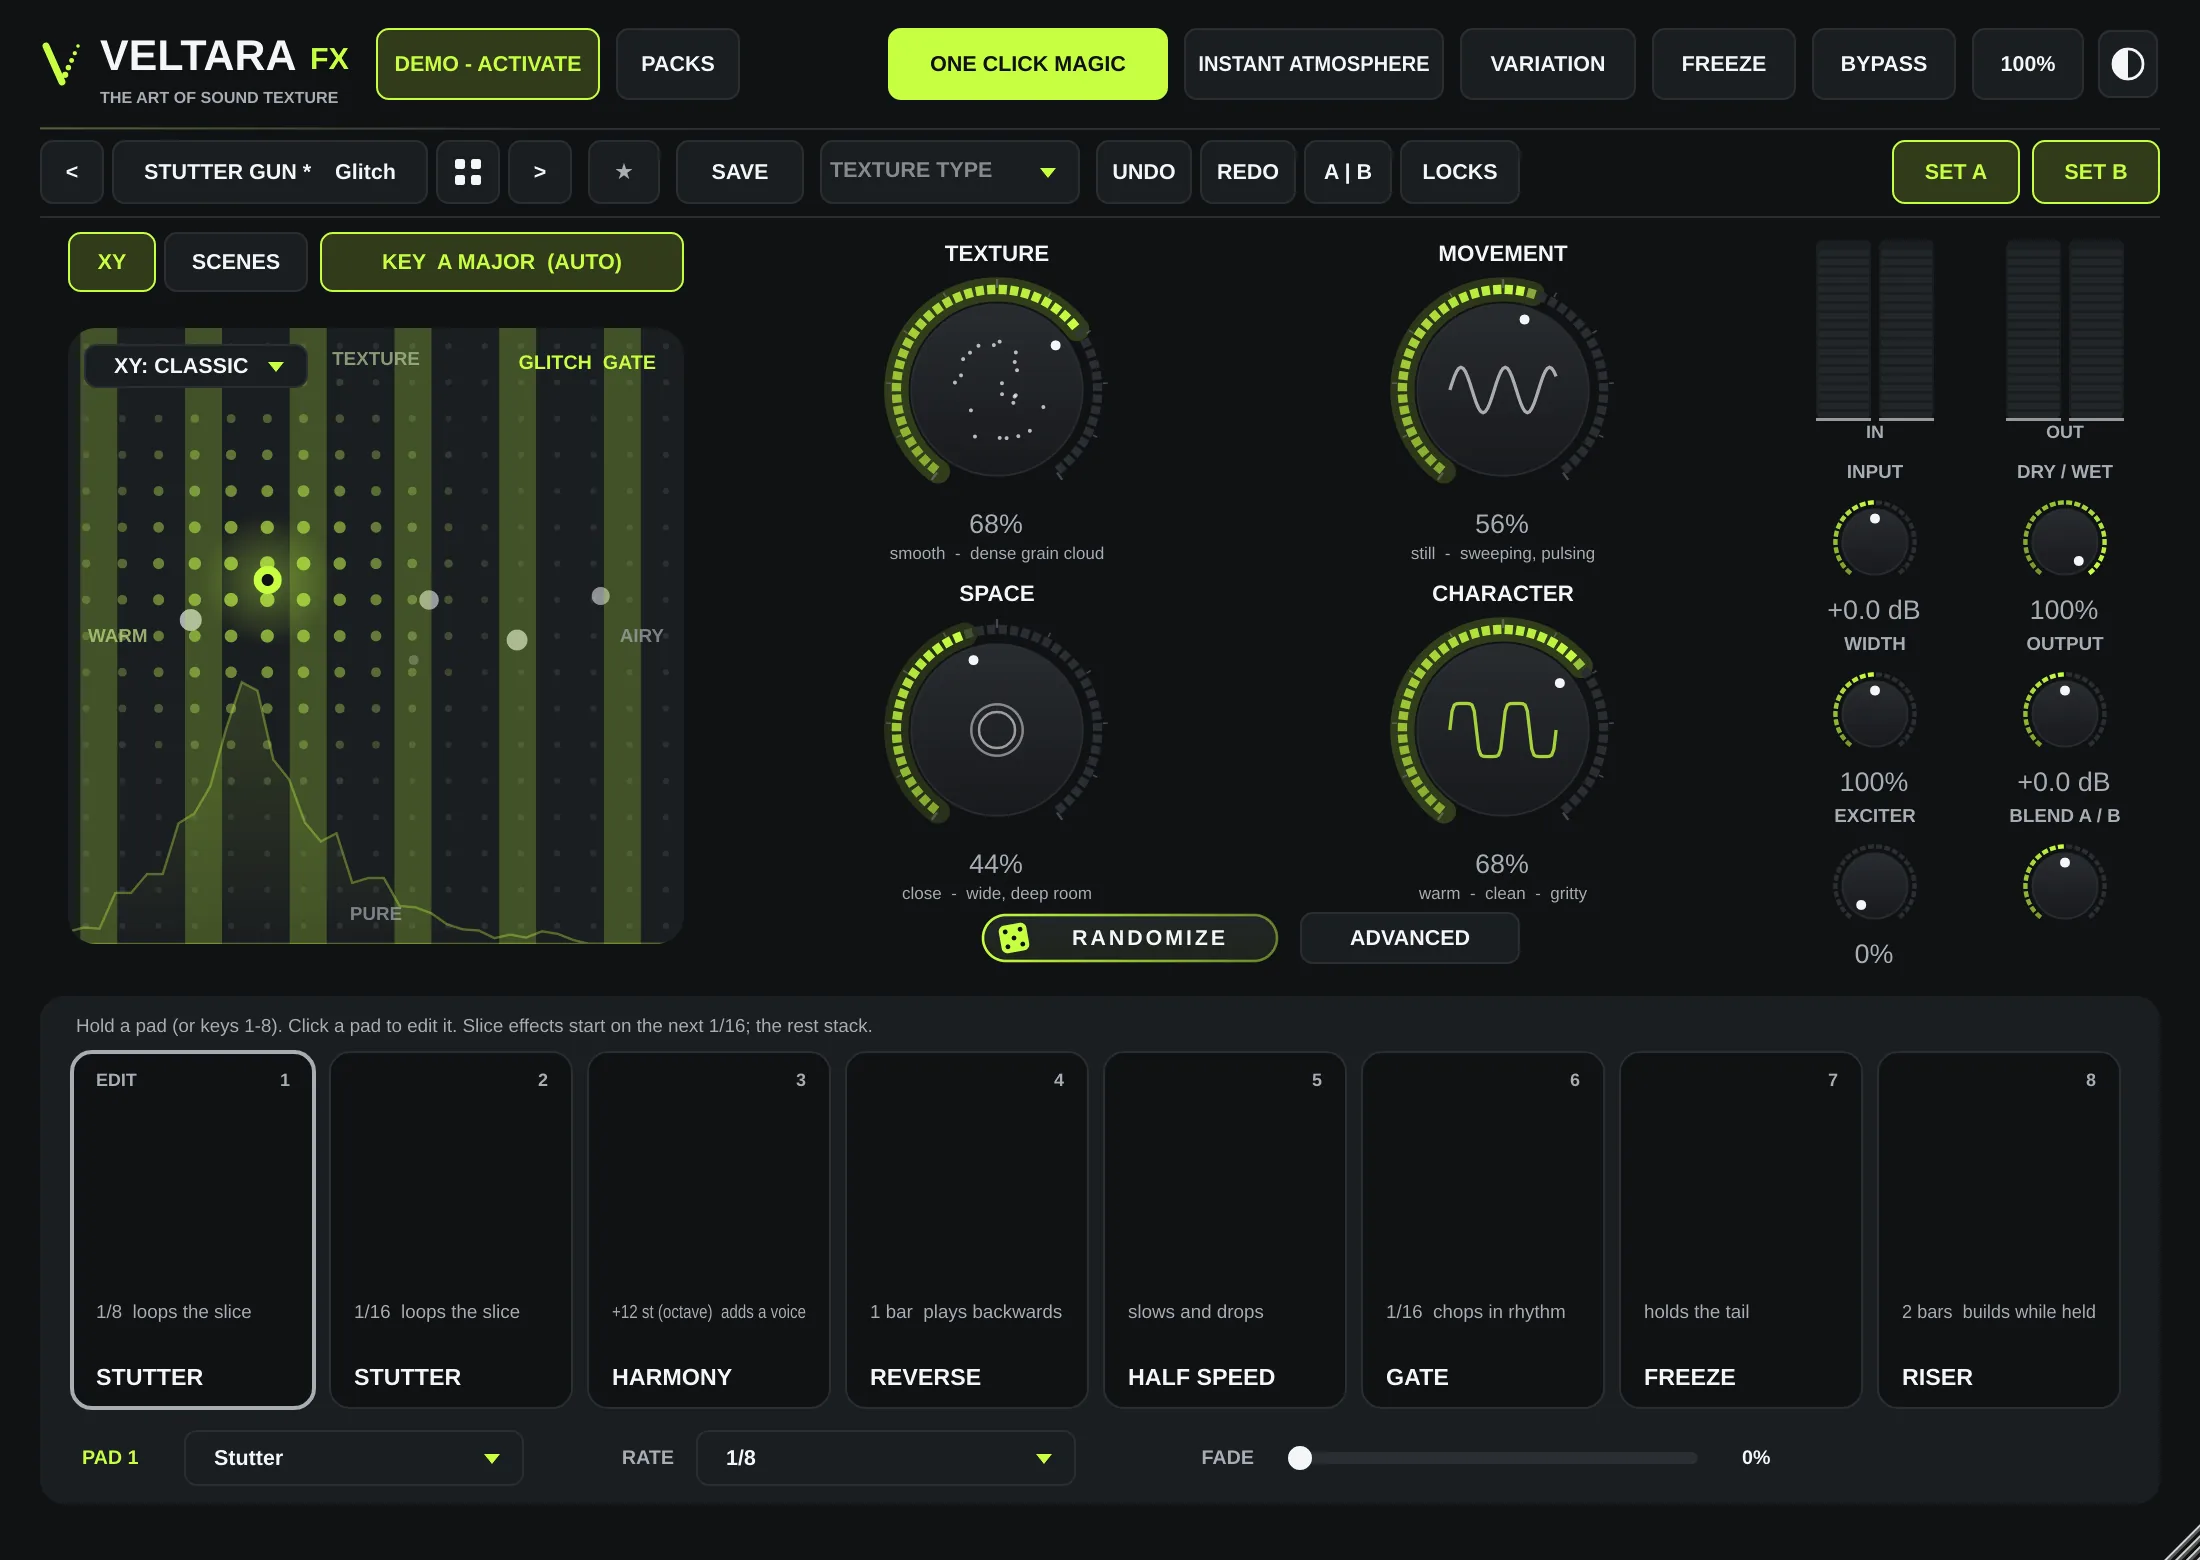
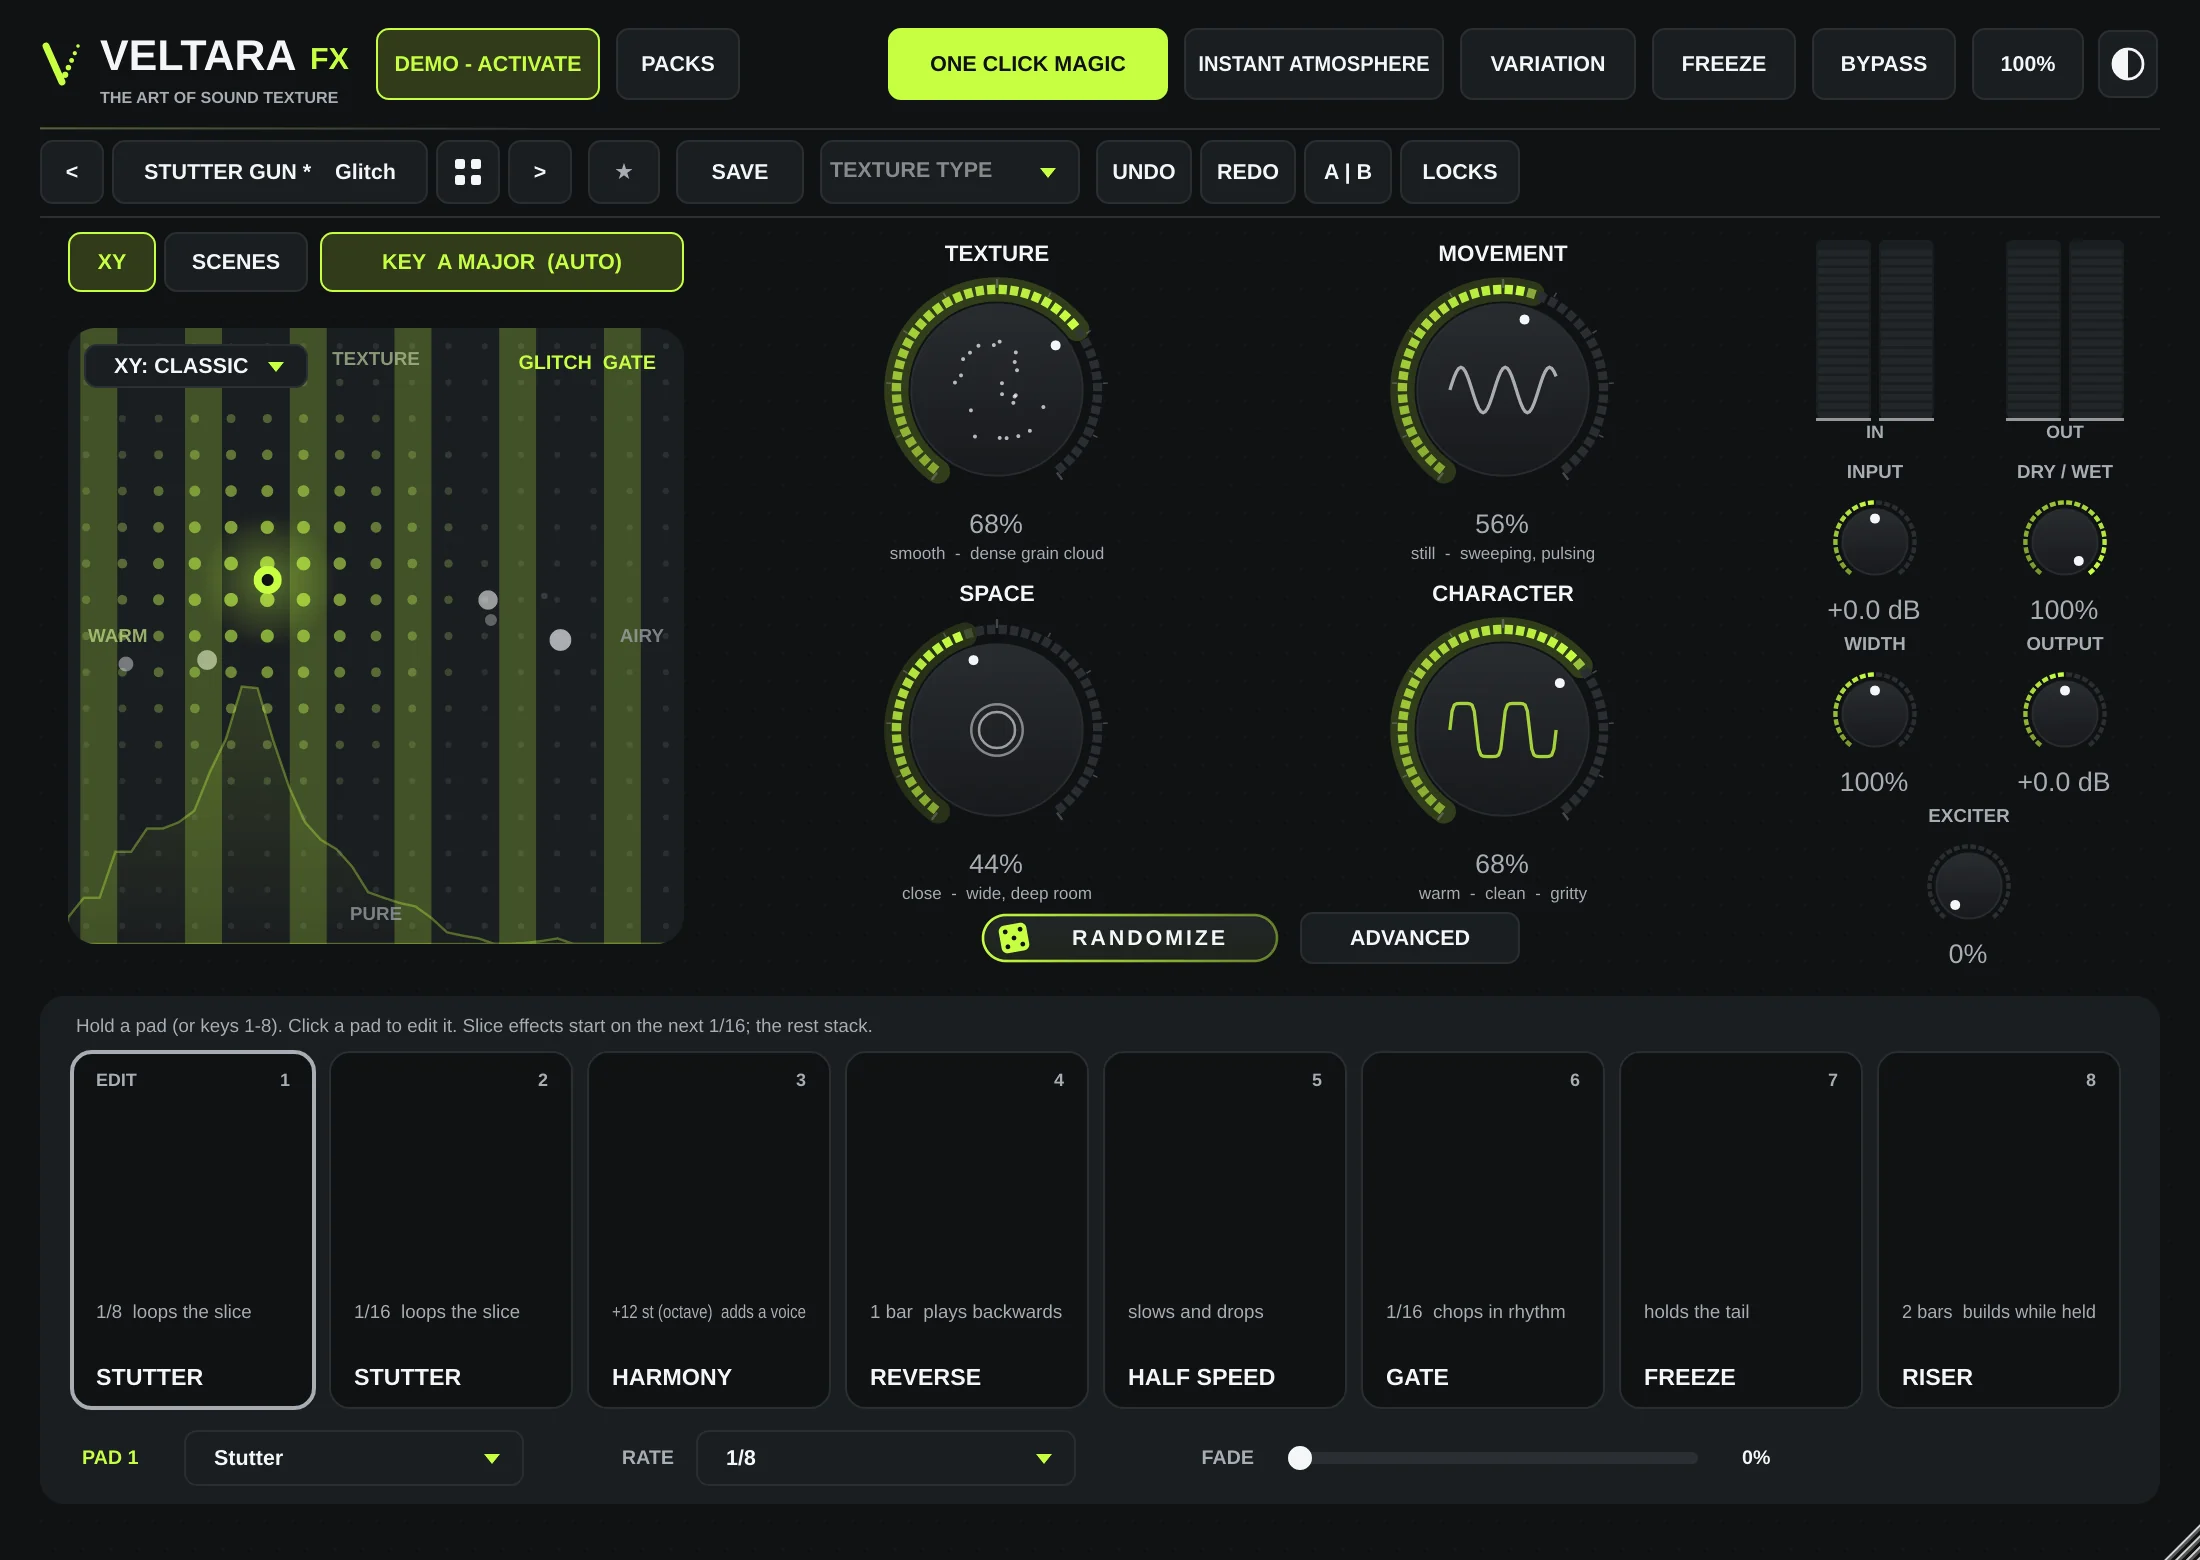
Site: Blend A/B removed from the plugin (v0.25); new screenshots and copy
Claude-Session: https://claude.ai/code/session_01R1iCjBjbwAbikR48FTajTQ

diff --git a/index.html b/index.html
@@ -804,8 +804,8 @@ header.top::after { content: ""; position: absolute; left: 0; bottom: -1px; heig
           <h3 data-i18n="ui.d3t">Eight performance pads</h3><p data-i18n="ui.d3">Hold to stutter, reverse, half-speed, gate, freeze or build a riser. Playable from the keyboard or MIDI.</p>
         </article>
         <article class="detail panel" data-zoom="img/detail-output.webp">
-          <div class="ph"><img src="img/detail-output.webp" width="370" height="760" loading="lazy" alt="Output column with input and output meters, Input, Dry/Wet, Width, Output, Exciter and Blend A/B knobs."></div>
-          <h3 data-i18n="ui.d4t">Output, Exciter, Blend</h3><p data-i18n="ui.d4">Meters, dry/wet, width, an Exciter for air on top, and a Blend knob between two stored versions.</p>
+          <div class="ph"><img src="img/detail-output.webp" width="370" height="760" loading="lazy" alt="Output column with input and output meters, Input, Dry/Wet, Width, Output and Exciter knobs."></div>
+          <h3 data-i18n="ui.d4t">Output and Exciter</h3><p data-i18n="ui.d4">Meters, dry/wet, width, output level and an Exciter for air on top.</p>
         </article>
       </div>
     </div>
@@ -1108,7 +1108,7 @@ const TOUR = {
           alt: "VELTARA FX in light mode." },
 };
 const TOUR_EN = {
-  "ui.cMain": "The main view: XY pad, the four macros, RANDOMIZE and ADVANCED, the output column with the Exciter and Blend A/B, and eight performance pads.",
+  "ui.cMain": "The main view: XY pad, the four macros, RANDOMIZE and ADVANCED, the output column with the Exciter, and eight performance pads.",
   "ui.cAdv": "ADVANCED adds four effect-family knobs under the macros: Grit (drive, lo-fi), Mod FX (chorus, glitch), Echoes (delay, reverb), Spectrum (spectral, harmony). The centre is your preset.",
   "ui.cBrowser": "The preset browser: 15 banks, search, favourites, and bars that show how much texture, movement and space each preset brings.",
   "ui.cLight": "The same interface in light mode, one click away in the top bar.",
@@ -1159,14 +1159,14 @@ const ES = {
   "ui.eyebrow": "La interfaz", "ui.title": "<span class=\"metal\">Todo en una pantalla.</span> Nada escondido en menús.",
   "ui.lede": "Capturas reales de VELTARA FX. Haz clic en cualquier imagen para ver los controles de cerca.",
   "ui.tMain": "Vista principal", "ui.tAdv": "ADVANCED", "ui.tBrowser": "Navegador de presets", "ui.tLight": "Modo claro", "ui.zoom": "Clic para ampliar",
-  "ui.cMain": "La vista principal: pad XY, los cuatro macros, RANDOMIZE y ADVANCED, la columna de salida con el Exciter y Blend A/B, y ocho pads de performance.",
+  "ui.cMain": "La vista principal: pad XY, los cuatro macros, RANDOMIZE y ADVANCED, la columna de salida con el Exciter, y ocho pads de performance.",
   "ui.cAdv": "ADVANCED añade cuatro knobs de familias de efectos debajo de los macros: Grit (drive, lo-fi), Mod FX (chorus, glitch), Echoes (delay, reverb) y Spectrum (spectral, harmony). En el centro está tu preset.",
   "ui.cBrowser": "El navegador de presets: 15 bancos, búsqueda, favoritos y barras que muestran cuánta textura, movimiento y espacio trae cada preset.",
   "ui.cLight": "La misma interfaz en modo claro, a un clic en la barra de arriba.",
   "ui.d1t": "Cuatro macros", "ui.d1": "Texture, Movement, Space y Character. Cada uno tiene su propia etapa de sonido, así que cada giro se oye.",
   "ui.d2t": "Pad XY", "ui.d2": "Mándalo a uno de diez efectos y arrastra. Glitch, grain, filtro, delay: cada uno se dibuja en el pad.",
   "ui.d3t": "Ocho pads de performance", "ui.d3": "Mantén para stutter, reverse, half-speed, gate, freeze o un riser. Se tocan con el teclado o por MIDI.",
-  "ui.d4t": "Salida, Exciter, Blend", "ui.d4": "Medidores, dry/wet, anchura, un Exciter para dar aire arriba y un knob Blend entre dos versiones guardadas.",
+  "ui.d4t": "Salida y Exciter", "ui.d4": "Medidores, dry/wet, anchura, nivel de salida y un Exciter para dar aire arriba.",
   "banks.eyebrow": "Librería de fábrica", "banks.title": "<span class=\"metal\">150 presets</span> para diseñar texturas, en 15 bancos por género.",
   "banks.lede": "Del reggaetón y el trap a lo cinemático y ambiental. Cada preset está igualado en volumen contra la señal seca, así que cambiar nunca da saltos, y comparado con el resto para que no haya dos iguales. Dale play para oír uno de cada banco.",
   "lib.f1t": "Volumen igualado", "lib.f1": "Cambia de preset en plena sesión sin saltos de volumen.",
